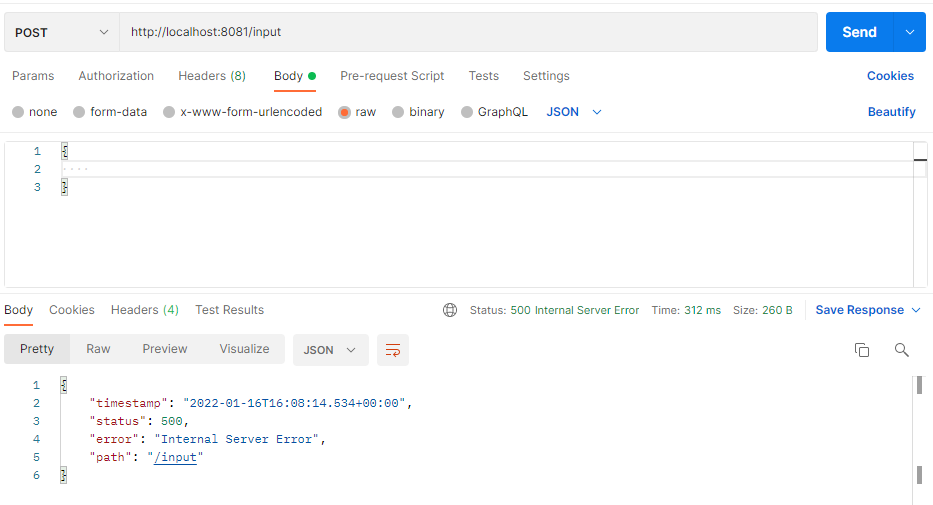
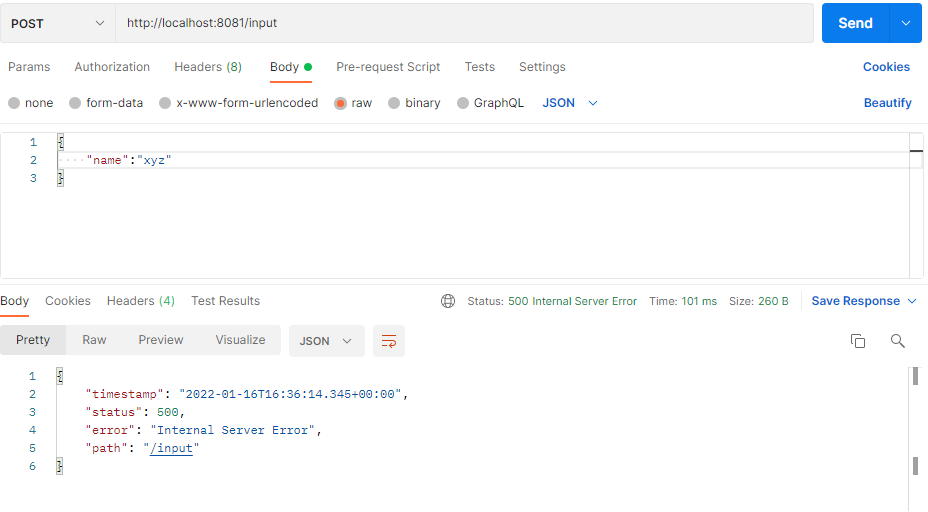
output added

diff --git a/src/main/java/com/example/CustomException/service/InputService.java b/src/main/java/com/example/CustomException/service/InputService.java
@@ -10,8 +10,8 @@ import org.springframework.stereotype.Service;
 public class InputService {
 
     public ResponseEntity<Object> handleInput(InputDto inputDto) {
-        if (inputDto.getName() == null)
-            throw new InputException("Name can't be null");
+        if (inputDto.getName().length() < 5)
+            throw new InputException("Name length can't be less than 5");
         return new ResponseEntity<>("success", HttpStatus.OK);
     }
 }
